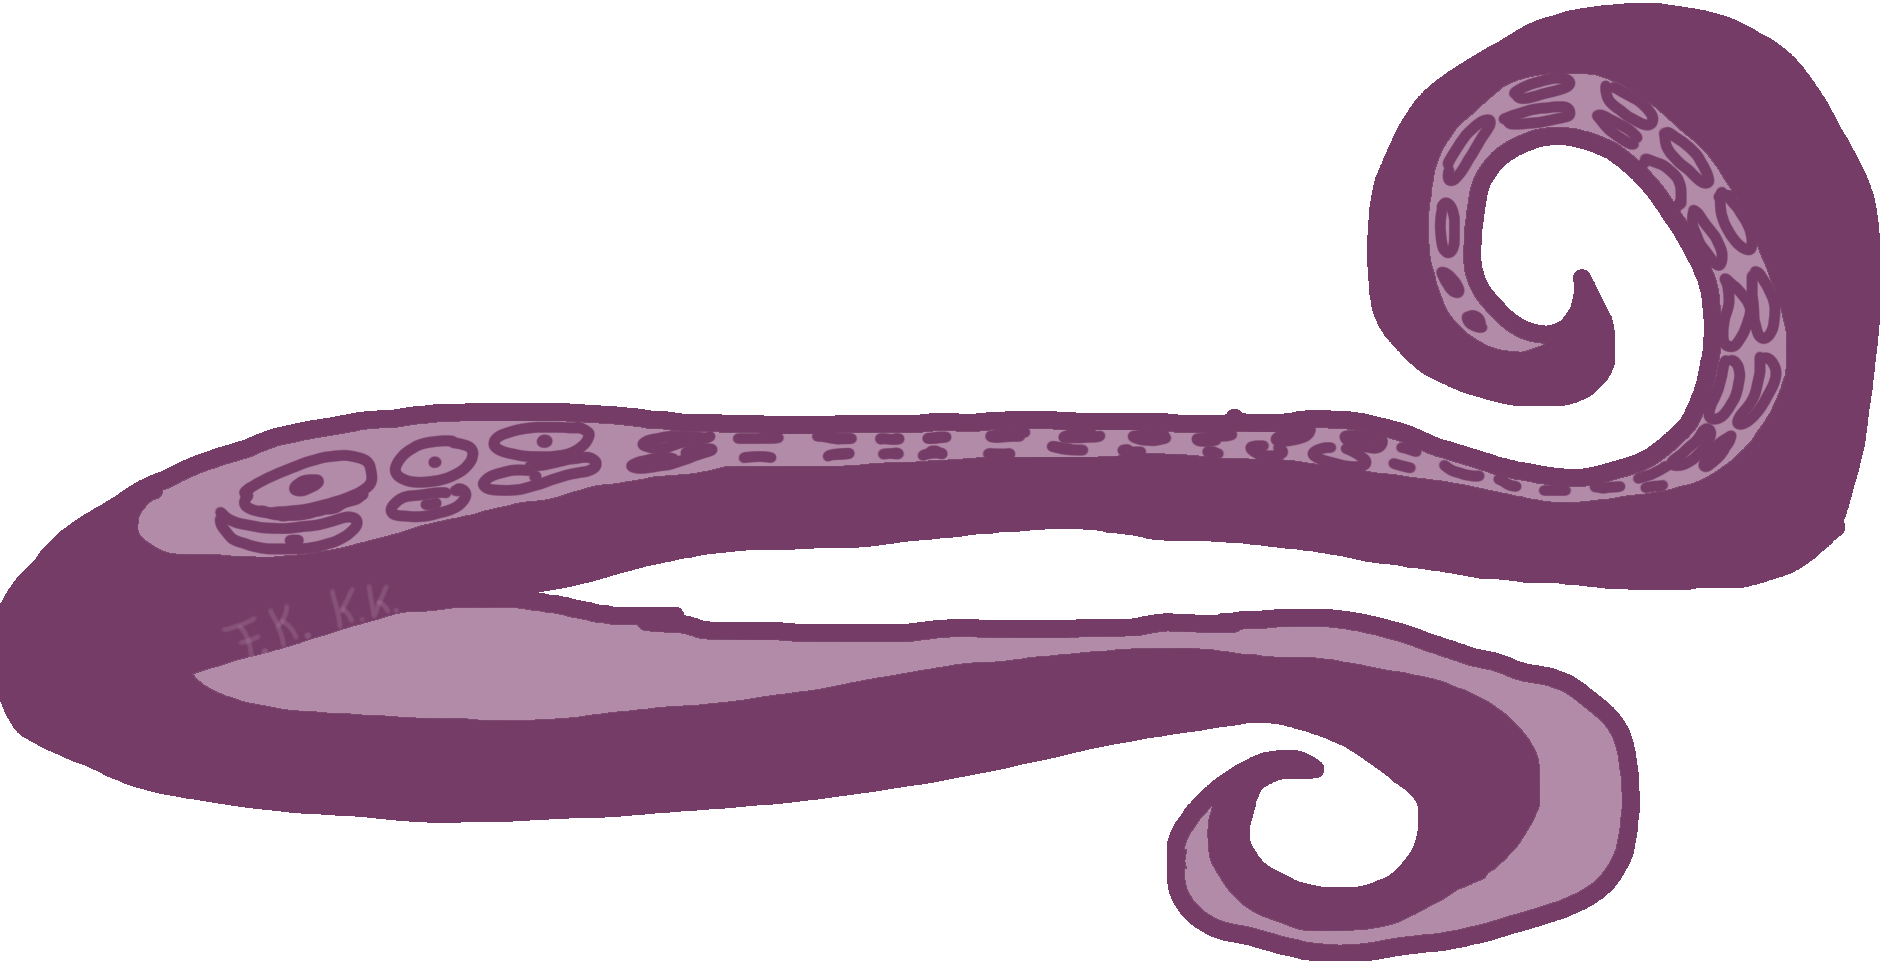
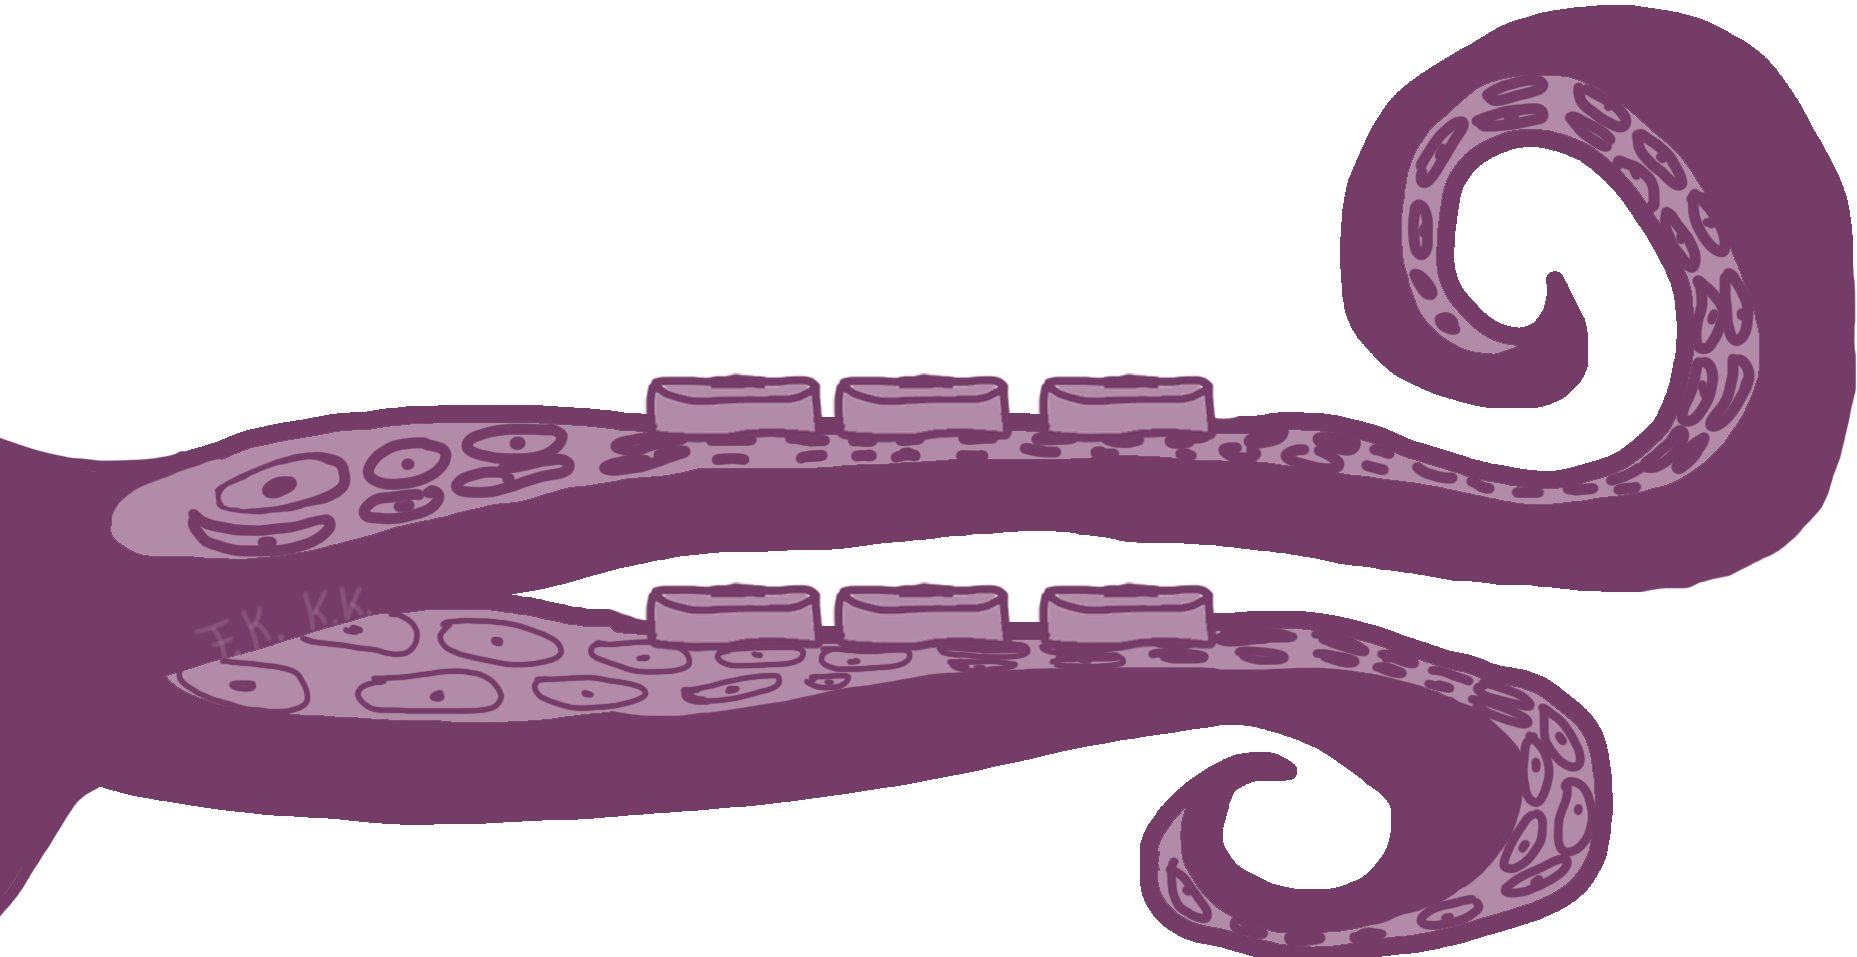
new update with good ui

diff --git a/style.css b/style.css
@@ -18,9 +18,10 @@
 html {
   box-sizing: border-box;
   font-size: 10px;
-  font-family: Arial, Helvetica, sans-serif ;
+  font-family: Arial, Helvetica, sans-serif;
   background-color: var(--white);
-  background-image: url("img/tentacle.png");
+  background-image: url("img/tentacle_sec.png");
+  background-repeat: no-repeat;
   color: var(--black);
 }
 
@@ -50,11 +51,11 @@ h1 {
   font-family: Arial, Helvetica, sans-serif;
 }
 
-.score {
+#score {
   padding: 0 3rem;
   line-height: 1;
   border-radius: 1rem;
-  color: var(--black);
+  color: var(--white);
 }
 
 .game {
@@ -65,40 +66,33 @@ h1 {
   margin: 0 auto;
 }
 
+.outerhole {
+  flex: 1 0 33.33%;
+  position: relative;
+  width: 200px;
+  height: 200px;
+}
+
 .hole {
+  /*
   flex: 1 0 33.33%;
   overflow: hidden;
   position: relative;
+  */
+  width: 100%;
+  height: 100%;
 }
 
-.hole:after {
-  display: block;
[1 lines of base64/hex data omitted]
-    bottom center no-repeat;
-    background-size: contain;
-    content: "";
-    width: 100%;
-    height: 70px;
-    position: absolute;
-    z-index: 2;
-    bottom: -30px;
-  }
-  
-  
-  /*
-  .hole:after {
-    display: block;
-    background: url("img/saugnapf.png") bottom center no-repeat;
-    background-size: contain;
-    content: "";
-    width: 190%;
-    height: 570px;
-    position: absolute;
-    z-index: 2;
-    bottom: -30px;
-  }
-  */
-  
+.afterhole {
+  position: absolute;
+  bottom: -30%;
+  left: 0;
+  width: 100%;
+  height: 40%;
+  background-image: url('img/suckingcup2.png');
+  background-size: cover;
+}
+
 .hole.up {
     top: 0;
 }
@@ -112,20 +106,22 @@ h1 {
 
 .excel {
   background: url("img/excel.jpg");
-  background-size: 180%;
+  background-size: 160%;
 }
 
 .neo {
   background: url("img/neo.jpg");
-  background-size: 80%;
+  background-size: 60%;
 }
 
-#startButton {
+#topButton {
   background: var(--darkgreen);
+  margin-top: 10px;
+  margin-bottom: 10px;
   padding-left: 70px;
   padding-right: 70px;
-  padding-bottom: 30px;
-  padding-top: 30px;
+  padding-bottom: 15px;
+  padding-top: 15px;
   font-size: 36px;
   color: var(--white);
   border-radius: 16px;
@@ -135,8 +131,8 @@ h1 {
 progress {
   width: revert;
   display: inline-block;
-  margin: 30px auto;
-  padding: 3px;
+  margin: 35px auto;
+  padding: 2px;
   border: 0 none;
   background: #444;
   border-radius: 14px;
@@ -171,4 +167,29 @@ progress::-webkit-progress-value {
   display: flex; 
   justify-content: space-between;
 
+}
+
+#overlay {
+  position: fixed;
+  display: none;
+  width: 100%;
+  height: 100%;
+  top: 0;
+  left: 0;
+  right: 0;
+  bottom: 0;
+  background-color: rgba(0,0,0,0.5);
+  z-index: 2;
+  cursor: pointer;
+}
+
+#overlaytext {
+  top: 50%;
+  left: 50%;
+  transform: translate(-50%,-50%);
+  -ms-transform: translate(-50%,-50%);
+  position: absolute;
+  font-size: 28px;
+  color: white;
+  font-family: Arial, Helvetica, sans-serif;
 }

diff --git a/main.html b/main.html
@@ -1,67 +1,90 @@
-<!DOCTYPE html>
+<!DOCTYPE html>
 
 <html lang="en">
-<head>
-    <meta charset="utf-8">
-    <meta name="viewport" content="width=device-width, initial-scale=1">
-    <link rel="stylesheet" href="style.css">
-    <title>Whack an Excel</title>
-</head>
-<body>
-    <div class="controls">
-        <span>Whack-an-Excel</span>
-        <span id="buttonorprogress">
-            <span id="myButton">
-                <button id= "startButton" onClick="init()">Start!</button>
+    <head>
+        <meta charset="utf-8">
+        <meta name="viewport" content="width=device-width, initial-scale=1">
+        <link rel="stylesheet" href="style.css">
+        <title>Whack an Excel</title>
+        <link rel="icon" type="image/gif" href="img/hammerexcel_small.gif" />
+    </head>
+    <body onload="inject()">
+        <div class="controls">
+            <span id="titleOrScore">
+                
             </span>
-        </span>
-        <!--
-            <span id="myProgress">
+            <span id="buttonorprogress">
+                <span id="myButton">
+                    <button id= "topButton" onclick="init()">Start!</button>
+                </span>
             </span>
-
-        -->
-        <span>Your Score:
-            <span class="score">0</span>
-        </span>
-    </div>
+            <span>
+                    <button id="topButton" onclick="showHelp()">Help!</button>
+            </span>
+        </div>
     
+    <div id="overlay" onclick="hideHelp()">
+        <div id="overlaytext">
+            <div">
+                <div style="display: block;">
+                    <div class="howto" style="font-size: 36px; text-decoration:underline;">How to Play:</div>
+                    <div class="howto">Press Start and don't let the outdated Excel lists excape from the tentacles. <br>
+                        But be careful, there are some friends around that you do not want to hit with the hammer!</div>
+                </div>
+                <div style="display: flex; justify-content: space-between;">
+                    <div>
+                        <img src="img/hammerexcel.gif" alt="Hammer Excel" width="500">
+                    </div>
+                    <div>
+                        <img src="https://i.giphy.com/media/eIm624c8nnNbiG0V3g/giphy.webp" alt="Love Neo" width="690">
+                    </div>  
+                </div>
+            </div>
+        </div>
+    </div>
+
     <div style="padding: 2%;"> </div>
     <div class="midpart">
         <div class="game">
-            <div class="hole hole0">
-                <div class="target target0"></div>
+            <div class="outerhole">
+                <div class="hole hole0">
+                    <div class="target target0"></div>
+                </div>
+                <div class="afterhole"></div>
             </div>
-            <div class="hole hole1">
-                <div class="target target1"></div>
+            <div class="outerhole">
+                <div class="hole hole1">
+                    <div class="target target1"></div>
+                </div>
+                <div class="afterhole"></div>
             </div>
-            <div class="hole hole2">
-                <div class="target target2"></div>
+            <div class="outerhole">
+                <div class="hole hole2">
+                    <div class="target target2"></div>
+                </div>
+                <div class="afterhole"></div>
             </div>
-            <div class="hole hole3">
-                <div class="target target3"></div>
+            <div class="outerhole">
+                <div class="hole hole3">
+                    <div class="target target3"></div>
+                </div>
+                <div class="afterhole"></div>
             </div>
-            <div class="hole hole4">
-                <div class="target target4"></div>
+            <div class="outerhole">
+                <div class="hole hole4">
+                    <div class="target target4"></div>
+                </div>
+                <div class="afterhole"></div>
             </div>
-            <div class="hole hole5">
-                <div class="target target5"></div>
+            <div class="outerhole">
+                <div class="hole hole5">
+                    <div class="target target5"></div>
+                </div>
+                <div class="afterhole"></div>
             </div>
         </div>
     </div>
     <div style="padding: 5%;"> </div>
-    <div style="display: flex; justify-content: space-between;">
-        <div>
-            <img src="img/hammerexcel.gif" alt="Hammer Excel" width="500">
-        </div>
-        <div style="display: block;">
-            <div class="howto" style="font-size: 18px; text-decoration:underline;">How to Play:</div>
-            <div class="howto" style="font-size: 14px;">Press start and hammer the Excel lists back into their holes by clicking on them. <br>But be careful, there are some friends around that you do not want to hit with the hammer!</div>
-        </div>
-        <div>
-            <img src="https://i.giphy.com/media/eIm624c8nnNbiG0V3g/giphy.webp" alt="Love Neo">
-        </div>
-        
-    </div>
     <script src="script.js"></script>
 </body>
 </html>

diff --git a/script.js b/script.js
@@ -1,14 +1,14 @@
 const holes = document.querySelectorAll('.hole');
-const scoreBoard = document.querySelector('.score');
+const titleOrHelp = document.getElementById('titleOrHelp');
+// const scoreBoard = document.querySelector('.score');
 const targets = document.querySelectorAll('.target');
-const switchButton = document.getElementById("myButton");
-const switchProgress = document.getElementById("myProgress");
 const butorpro = document.getElementById("buttonorprogress");
 
 let lastHole = 10;
 let timeUp = false;
 let score = 0;
 let showing = 'none'
+let injected = false;
 
 function randomTime(min, max) {
     return Math.round(Math.random() * (max - min) + min);
@@ -57,6 +57,9 @@ function peep() {
 }
 
 function init() {
+    inject();
+    const localScore = document.getElementById('score');
+    scoreBoard = localScore;
     wait();
     startTimer();
     startGame();
@@ -80,7 +83,7 @@ function startTimer() {
     var timeVal = 0;
     var downloadTimer = setInterval(function(){
         if(timeVal >= 30){
-            butorpro.innerHTML = '<span id="myButton"><button id= "startButton" onClick="startGame();startTimer()">Start!</button></span>';
+            butorpro.innerHTML = '<span id="myButton"><button id= "topButton" onClick="startGame();startTimer()">Start!</button></span>';
             clearInterval(downloadTimer);
         }
         countDown.value = timeVal;
@@ -114,6 +117,27 @@ function bonk(e) {
     }
     showing = 'none';
     scoreBoard.textContent = score;
+}
+
+function showHelp () {
+    document.getElementById("overlay").style.display = "block";
+}
+
+function hideHelp () {
+    document.getElementById("overlay").style.display = "none";
+}
+
+function inject () {
+    if (! injected) {
+        titleOrScore.innerHTML = 'Whack-An-Excel!';
+        injected = true;
+    }
+    else {
+        titleOrScore.innerHTML = 'Your Score:<span id="score">0</span>';
+        injected = false;
+    }
+    
+    
 }
 
 targets.forEach(target => target.addEventListener('click', bonk));
